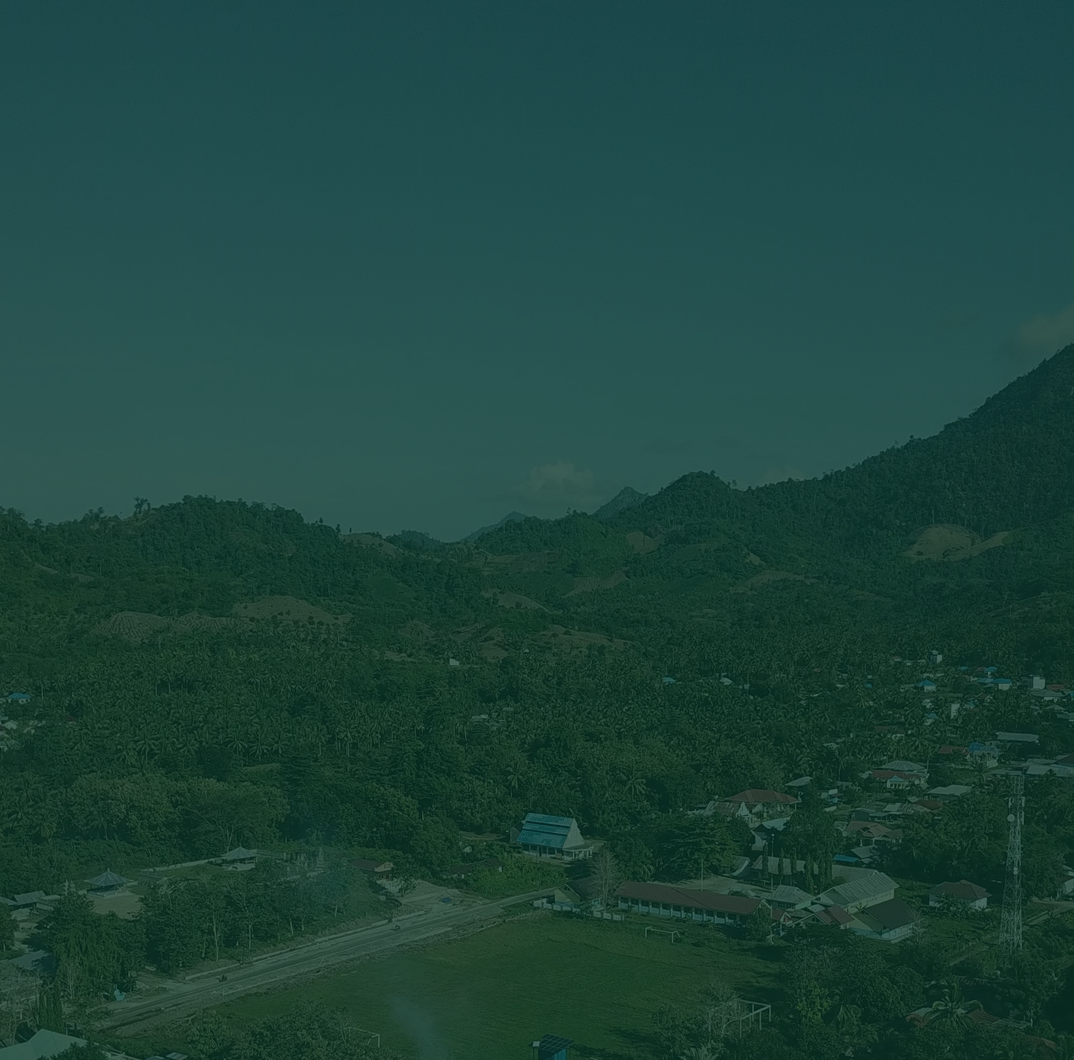
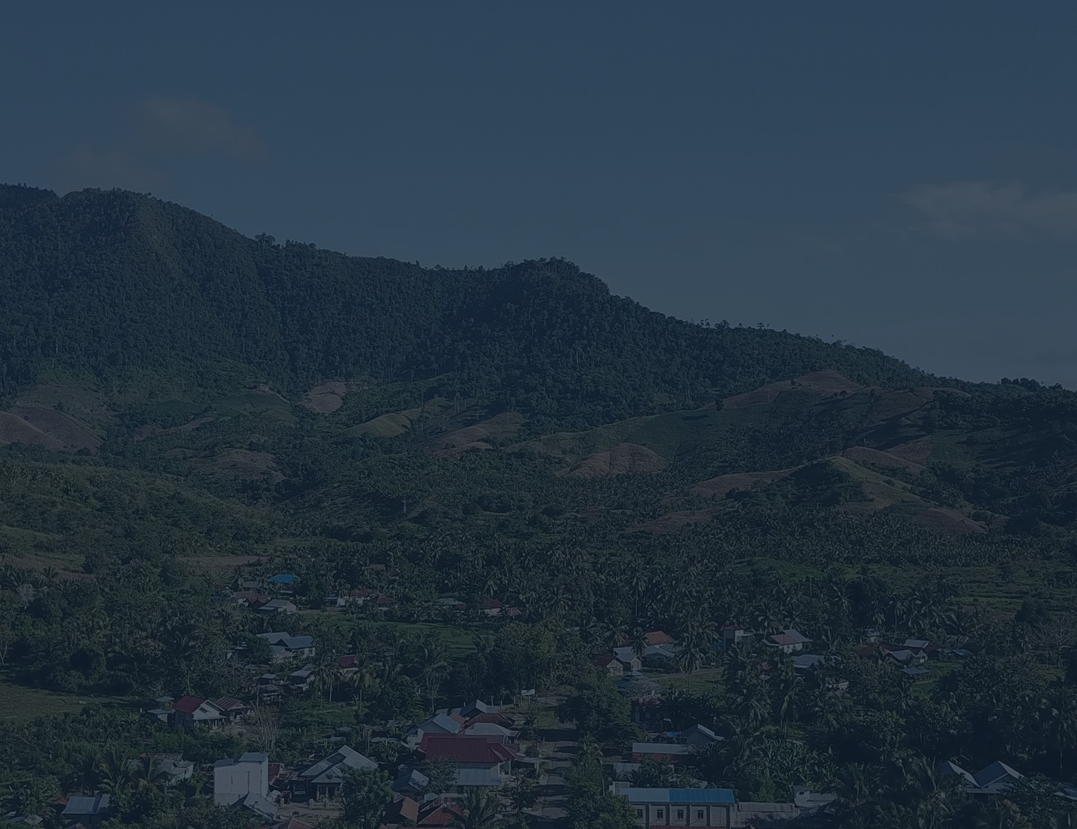
edit content in profildesa page

diff --git a/src/pages/tentang/profildesa.jsx b/src/pages/tentang/profildesa.jsx
@@ -15,34 +15,35 @@ function Profil() {
             <div className="flex flex-col gap-4 w-full">
               <span className=" flex flex-col">
                 <h3 className="text-xl text-c-darkgold">Tentang</h3>
-                <h2 className=" text-c-darkgreen">Desa Banuroja</h2>
+                <h2 className=" text-c-darkgreen">Desa Sari Murni</h2>
               </span>
               <p>
-                Desa Banuroja adalah desa yang terletak di Kecamatan Randangan,
-                Kabupaten Pohuwato, Provinsi Gorontalo. Desa ini memiliki luas
-                wilayah sekitar 10,5 kilometer persegi dan berpenduduk sekitar
-                2.000 jiwa. Desa Banuroja dijuluki sebagai &quot;Desa
-                Pancasila&quot; karena masyarakatnya yang heterogen dan hidup
-                rukun berdampingan, walaupun mereka berasal dari berbagai suku
-                dan agama yang berbeda. Suku-suku yang ada di Desa Banuroja
-                adalah Bali, Nusa Tenggara, Gorontalo, Jawa, dan lainnya. Agama
-                yang ada di Desa Banuroja adalah Islam, Kristen, dan Hindu.
-                Masyarakat Desa Banuroja sangat toleransi satu sama lain, dan
-                mereka selalu menjaga kerukunan antar umat beragama. <br></br>
+                Desa Sari Murni adalah desa yang terletak di Kecamatan
+                Randangan, Kabupaten Pohuwato, Provinsi Gorontalo. Desa ini
+                memiliki luas wilayah sekitar 10,5 kilometer persegi dan
+                berpenduduk sekitar 2.000 jiwa. Desa Sari Murni dijuluki sebagai
+                &quot;Desa Pancasila&quot; karena masyarakatnya yang heterogen
+                dan hidup rukun berdampingan, walaupun mereka berasal dari
+                berbagai suku dan agama yang berbeda. Suku-suku yang ada di Desa
+                Sari Murni adalah Bali, Nusa Tenggara, Gorontalo, Jawa, dan
+                lainnya. Agama yang ada di Desa Sari Murni adalah Islam,
+                Kristen, dan Hindu. Masyarakat Desa Sari Murni sangat toleransi
+                satu sama lain, dan mereka selalu menjaga kerukunan antar umat
+                beragama. <br></br>
                 <br></br>
-                Mata pencaharian utama penduduk Desa Banuroja adalah petani
-                jagung. Selain jagung, penduduk Desa Banuroja juga menanam buah
-                naga, kelapa, dan tanaman lainnya. Masyarakat Desa Banuroja juga
-                beternak sapi, kambing, ayam, dan babi. Desa Banuroja adalah
-                desa yang sangat indah dan nyaman untuk ditinggali.
-                Masyarakatnya yang ramah dan toleransi membuat Desa Banuroja
+                Mata pencaharian utama penduduk Desa Sari Murni adalah petani
+                jagung. Selain jagung, penduduk Desa Sari Murni juga menanam
+                buah naga, kelapa, dan tanaman lainnya. Masyarakat Desa Sari
+                Murni juga beternak sapi, kambing, ayam, dan babi. Desa Sari
+                Murni adalah desa yang sangat indah dan nyaman untuk ditinggali.
+                Masyarakatnya yang ramah dan toleransi membuat Desa Sari Murni
                 menjadi desa yang sangat layak dikunjungi oleh wisatawan dari
                 seluruh Indonesia.
               </p>
             </div>
             <div className="flex overflow-hidden rounded-full w-full h-auto">
               <Image
-                src="/desa.png"
+                src="/desa2.png"
                 alt="img"
                 width={500}
                 height={500}
@@ -97,21 +98,21 @@ function Profil() {
             <div className="flex flex-col justify-center items-center gap-4 ">
               <span className=" flex flex-col items-center text-center">
                 <h3 className="text-xl text-c-gold2">Tentang</h3>
-                <h2 className=" text-white">Logo Desa Banuroja</h2>
+                <h2 className=" text-white">Logo Desa Sari Murni</h2>
               </span>
               <Image
                 src="/logo-banu.png"
-                alt="logo banuroja"
+                alt="logo Sari Murni"
                 width={400}
                 height={400}
               ></Image>
               <p className="text-white text-center">
-                Logo desa banuroja terinspirasi dari burung garuda pancasila
-                yang kemudian diadaptasi untuk mencerminkan Desa Banuroja
+                Logo desa Sari Murni terinspirasi dari burung garuda pancasila
+                yang kemudian diadaptasi untuk mencerminkan Desa Sari Murni
                 sebagai desa pancasila. Sayap dan ekor pada logo membentuk
-                huruf-huruf yang bertuliskan &quot;banuroja&quot;. Bagian logo
-                terbagi menjadi 3 segmen yang merepresentasikan 3 agama di
-                Banuroja, yaitu Islam, Kristen, dan Hindu.
+                huruf-huruf yang bertuliskan &quot;Sari Murni&quot;. Bagian logo
+                terbagi menjadi 3 segmen yang merepresentasikan 3 agama di Sari
+                Murni, yaitu Islam, Kristen, dan Hindu.
               </p>
             </div>
           </section>
@@ -126,22 +127,22 @@ function Profil() {
             <div className="flex flex-col gap-4 w-full">
               <span className=" flex flex-col">
                 <h3 className="text-xl text-c-darkgold">Sejarah</h3>
-                <h2 className=" text-c-darkgreen">Desa Banuroja</h2>
+                <h2 className=" text-c-darkgreen">Desa Sari Murni</h2>
               </span>
               <p>
-                Desa Banuroja didirikan pada tahun 1950 oleh oleh sekelompok
+                Desa Sari Murni didirikan pada tahun 1950 oleh oleh sekelompok
                 orang dari berbagai suku dan agama yang berasal dari Pulau Jawa,
-                Pulau Bali, dan Pulau Lombok. Mereka datang ke Desa Banuroja
+                Pulau Bali, dan Pulau Lombok. Mereka datang ke Desa Sari Murni
                 untuk mencari penghidupan yang lebih baik. <br />
                 <br />
-                Awalnya, Desa Banuroja hanya sebuah desa kecil yang sangat
-                sederhana. Namun, seiring berjalannya waktu, Desa Banuroja
+                Awalnya, Desa Sari Murni hanya sebuah desa kecil yang sangat
+                sederhana. Namun, seiring berjalannya waktu, Desa Sari Murni
                 berkembang menjadi desa yang lebih besar dan lebih maju. Hal ini
-                disebabkan oleh masyarakat Desa Banuroja yang sangat rajin dan
-                gigih bekerja. Masyarakat Desa Banuroja juga sangat toleransi
+                disebabkan oleh masyarakat Desa Sari Murni yang sangat rajin dan
+                gigih bekerja. Masyarakat Desa Sari Murni juga sangat toleransi
                 satu sama lain. Mereka selalu menjaga kerukunan antar umat
                 beragama, walaupun mereka berasal dari berbagai suku dan agama
-                yang berbeda. Hal ini membuat Desa Banuroja menjadi desa yang
+                yang berbeda. Hal ini membuat Desa Sari Murni menjadi desa yang
                 sangat indah dan nyaman untuk ditinggali.
               </p>
             </div>
